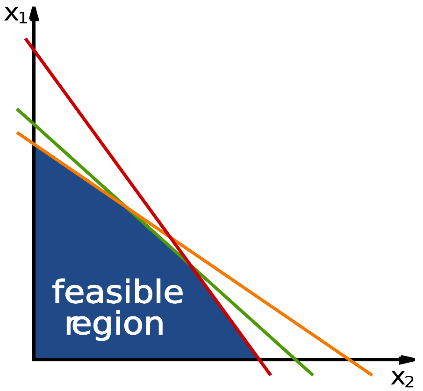
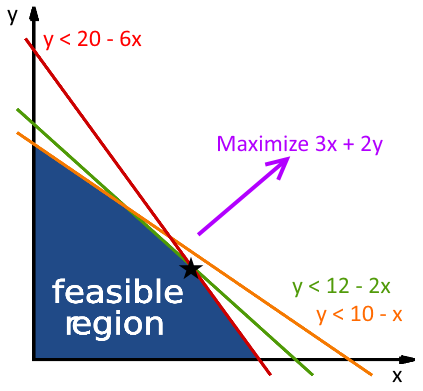
updated figure desc

diff --git a/docs/about.md b/docs/about.md
@@ -1,15 +1,63 @@
-## Building The Code
+## Obtaining The Code
 
-Code must be built before it can be ran. Obtain the code from [Github](https://github.com/coolmule0/LP). This uses [CMAKE](https://cmake.org/download/) to generate the build files. 
+Obtain the code from [Github](https://github.com/coolmule0/LP). This uses [CMAKE](https://cmake.org/download/) to generate the build files. 
 
-### CMAKE
+## How to build
 
-* Set CMake to build from the root directory of the downloaded folder. 
-* Add the correct architecture for your GPU using -arch=sm_xx under `CMAKE_CUDA_FLAGS`, replacing xx with the relevant version
+If using Visual studio, there is a ready-to-use solution file avaialable called `LP.sln`. Otherwise ensure there is a working version of CMAKE available.
+
+### CMake
+
+Use CMake to generate the relevant makefile, VS solution, e.t.c. Useful CMake flags to set would be adding `-arch=sm_xx` to "CMAKE_CUDA_FLAGS". This ensures that the project is built using a suitable architecture. Requires `xx` to be set to at least 30. Therefor ensure the GPU this is ran on is an NVidia graphics card with compute capability of at least 30.
 
     e.g. for a GTX 970, which uses compute 3.5, use -arch=sm_35
     
     Check out [this list](https://en.wikipedia.org/wiki/CUDA#GPUs_supported) for help discovering your compute version
-* This should generate the relevant solution/makefile
 
-## Running The Program
+
+### Windows
+
+Directory contains a visual studio solution not requiring CMake. Open this .sln file in visual studio.
+
+## What this project contains
+
+CMake capabilities to generate a build tool such as make or .sln. The GLM library in `include/glm`
+
+## How to Run
+
+Build and compile the project to generate an executable. The default location will be `x64/"build_mode"/LP` where "build_mode" is either "Debug" or "Release".
+
+Executable takes 2 arguments: 1) The name of constraint data to read in. 2) The number of batches of these to solve.
+
+An example would be `./x64/Release/LP benchmarks/64 1024` to use the pregenerated file containing 64 random constraints with feasible solution, for 1024 batches.
+
+## Program Output
+
+The program will output timing to the "timings" folder in a timings.txt file. This file contains lines of the form `%1 %2 %3\n` where %1 is the number of constraints (e.g. 64), %2 is the number of batches (e.g. 1024), %3 is the time in milliseconds that the program took.
+
+The solutions to the linear program are printed to console. Access to these values is accessible within the code by both GPU and CPU code in `output[i]` where i ranges over all batches.
+
+## Runing a test example
+
+Once an executable has been generated one can check the program is working correctly. This example uses a release mode build and can be done from the command line by running the following command from the base folder directory for this code:
+
+`"./x64/Release/LP.exe" benchmarks/64 1024`
+
+Or for Linux:
+
+`./x64/Release/LP benchmarks/64 1024`
+
+which should provide the output:
+
+`Batch 0          Optimal location is x: 1.265306 y: 0.448980     value of 2.163265`
+
+
+## Custom Data
+
+To use custom data, create 3 files of the form *_A.txt, *_B.txt, *_C.txt. Where * is a consistent name for all 3 files. File *_A.txt starts with a line of 2 numbers, the first is the number of constraints within the file (n) and the dimension of the problem (d) (should always be 2). The remainder of the file is (n) lines of (d) numbers. These represent the left hand side of the constraints A1x + A2y <= B. All should be space-separated when on the same line
+
+File *_B.txt contains (n) lines of 1 number. These represent the right hand side of the constraints A1x + A2y <= B. 
+
+File *_C.txt contains (d) lines of 1 number (d=2). These represent the objective function to maximise. Ensure data is written with respects to maximising objective function, and inequalities are of form Ax <= B.
+
+For solving a minimization (e.g. min ax + by ) there is a corresponding maximization function (max -ax - by) that can always be used.

diff --git a/docs/index.md b/docs/index.md
@@ -3,10 +3,11 @@
 ## Description
 A high-performance, graphical processing unit-based algorithm for efficiently solving two-dimensional linear programs in batches. The domain of two-dimensional linear programs is particularly useful due to the prevalence of relevant geometric problems. Batch linear programming refers to solving numerous different linear programs within one operation. By solving many linear programs simultaneously and distributing workload evenly across threads, graphical processing unit utilization can be maximized. Speedups of over 22 times and 63 times are obtained against state-of-the-art graphics processing unit and CPU linear program solvers, respectively.
 
-2-D linear problems are sets of equations of the form $ax + by < c$ with a function to maximise/minimise of the form $ix + jy$.
+2-D linear problems are sets of equations of the form `ax + by < c` with a function to maximise/minimise of the form `ix + jy`.
 
 ![alt text](Small-Linear_Programming_Feasible_Region.png "Example of 2D linear program")
 
+This figure is an example of a linear problem. The function to maximize is `3x+2y`, subject to the constraints `6x+y<20 2x+y<12 x+y<10 x>0 and y>0`. This problem has the solution marked as a star in the diagram, in which the optimisation function has a value of 22 of `x=2 y=8`
 
 ## Requirements
 * x64 CPU architecture
